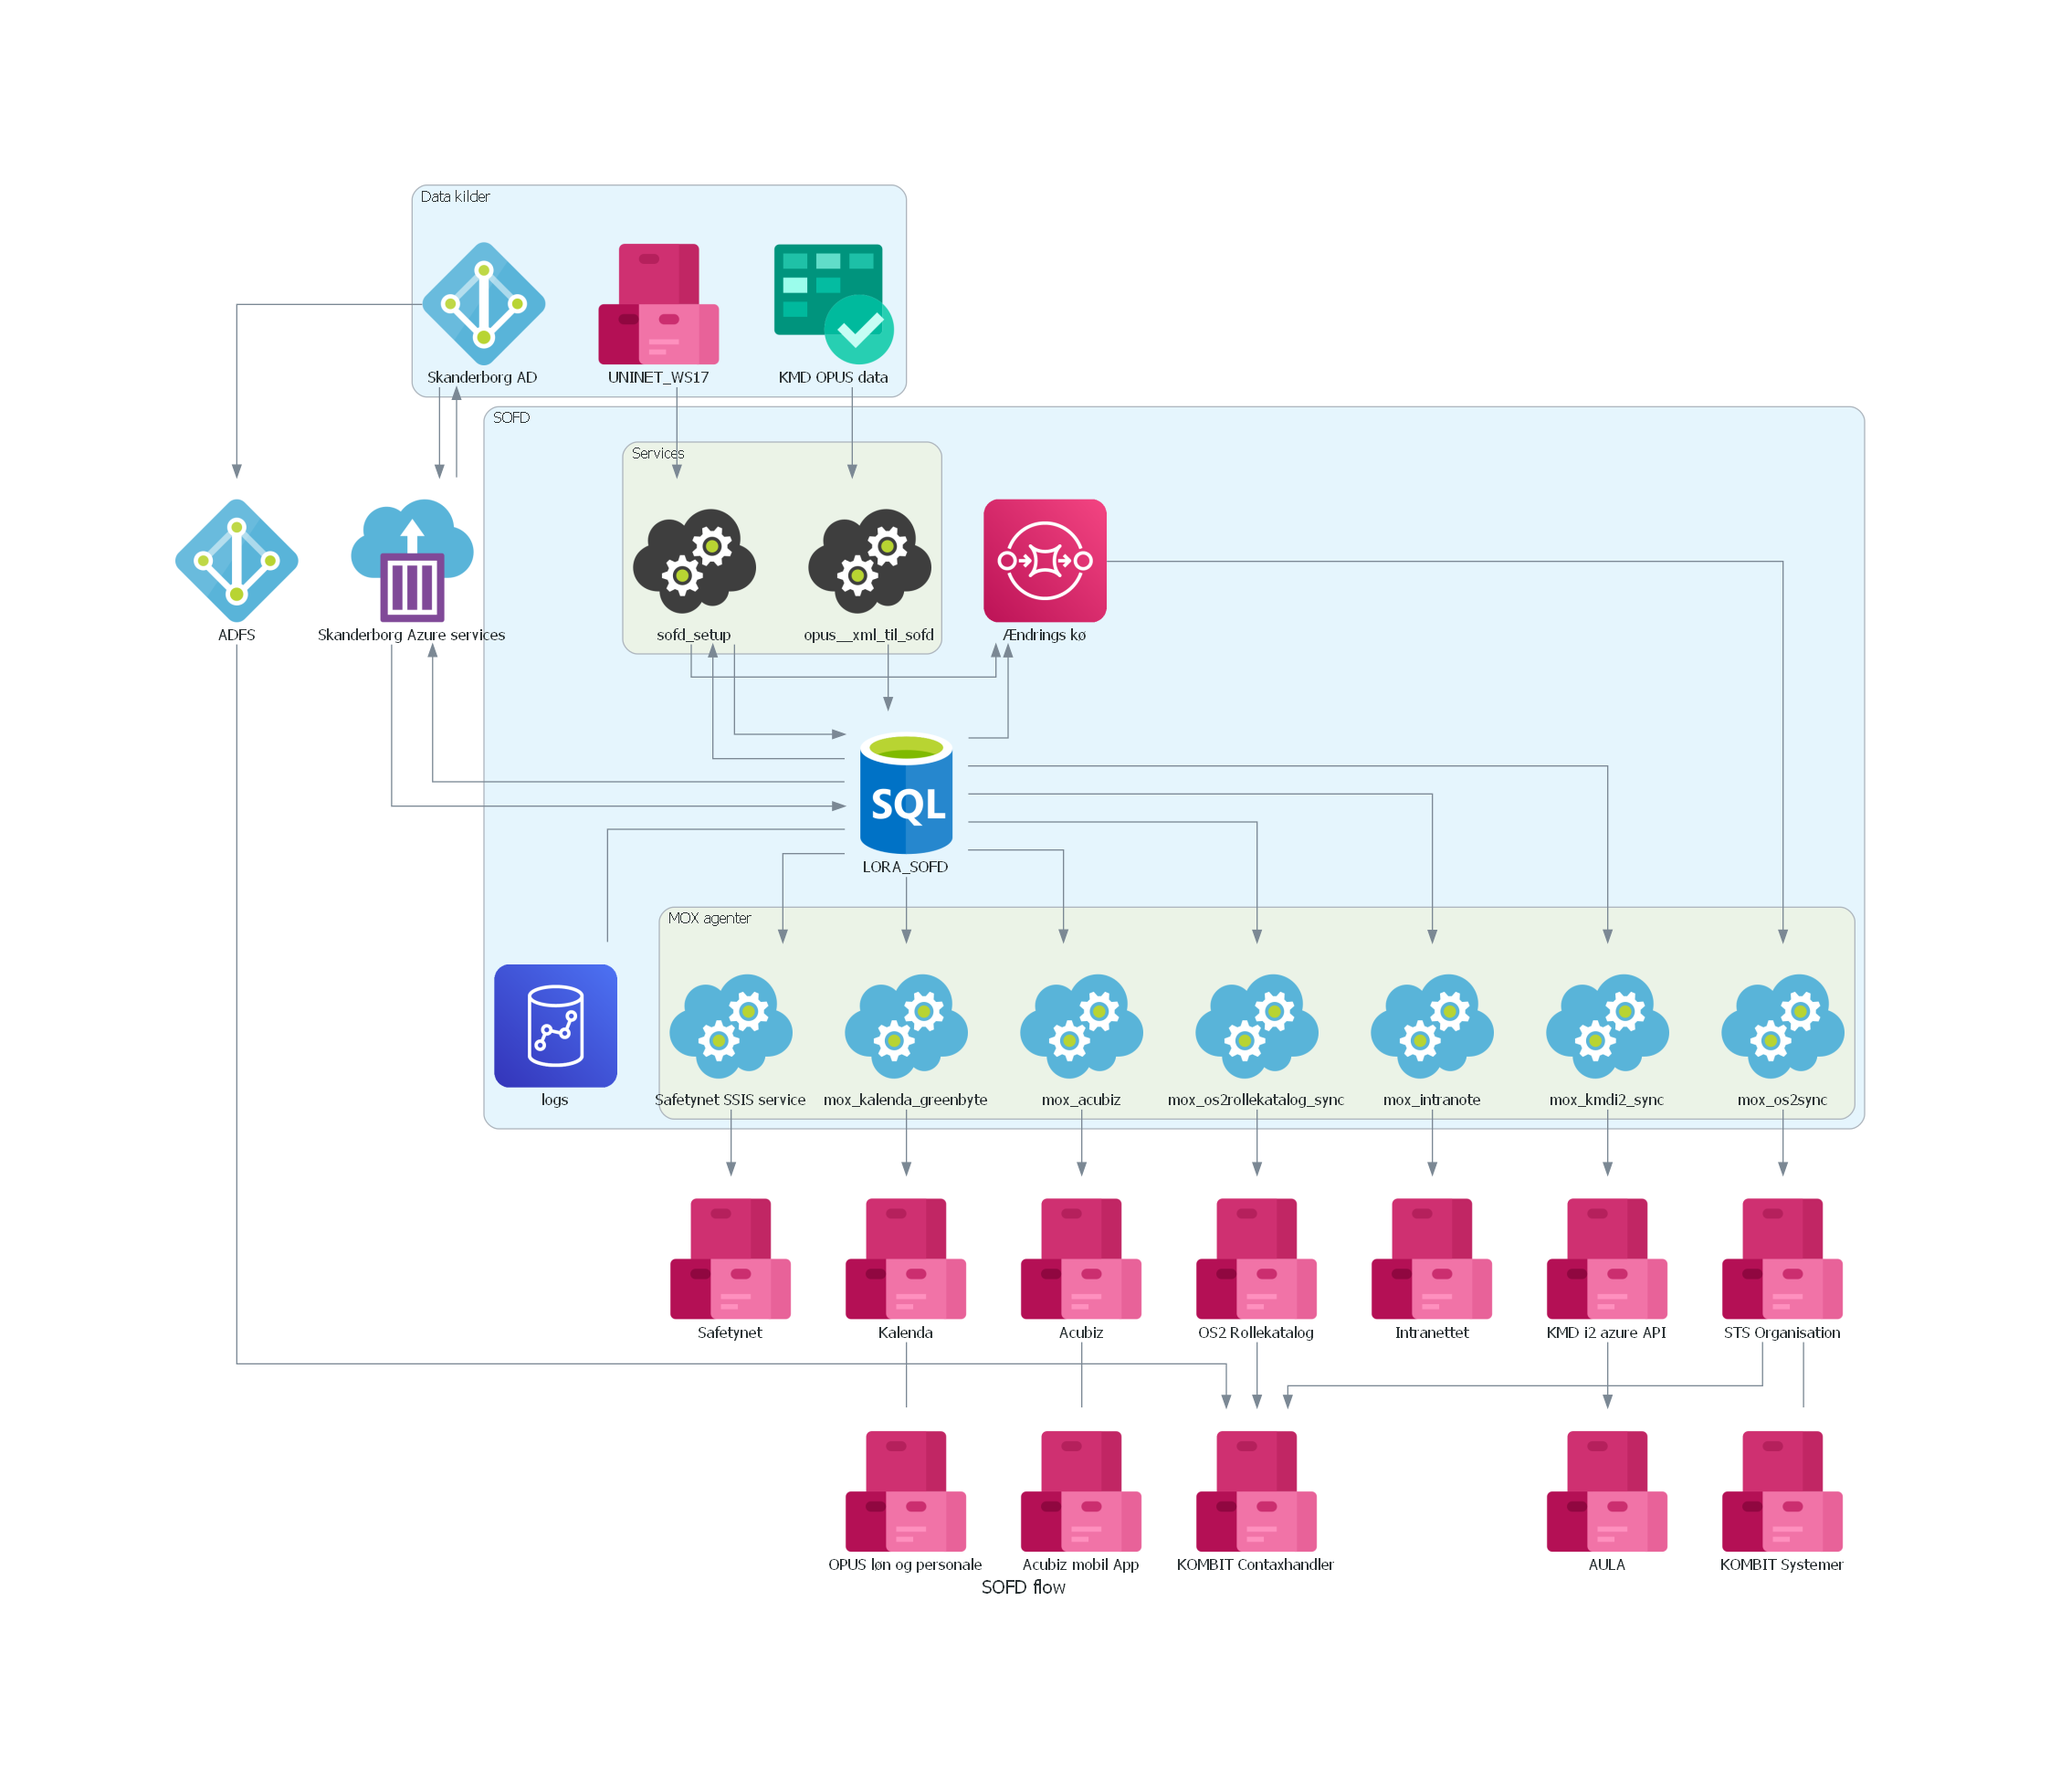
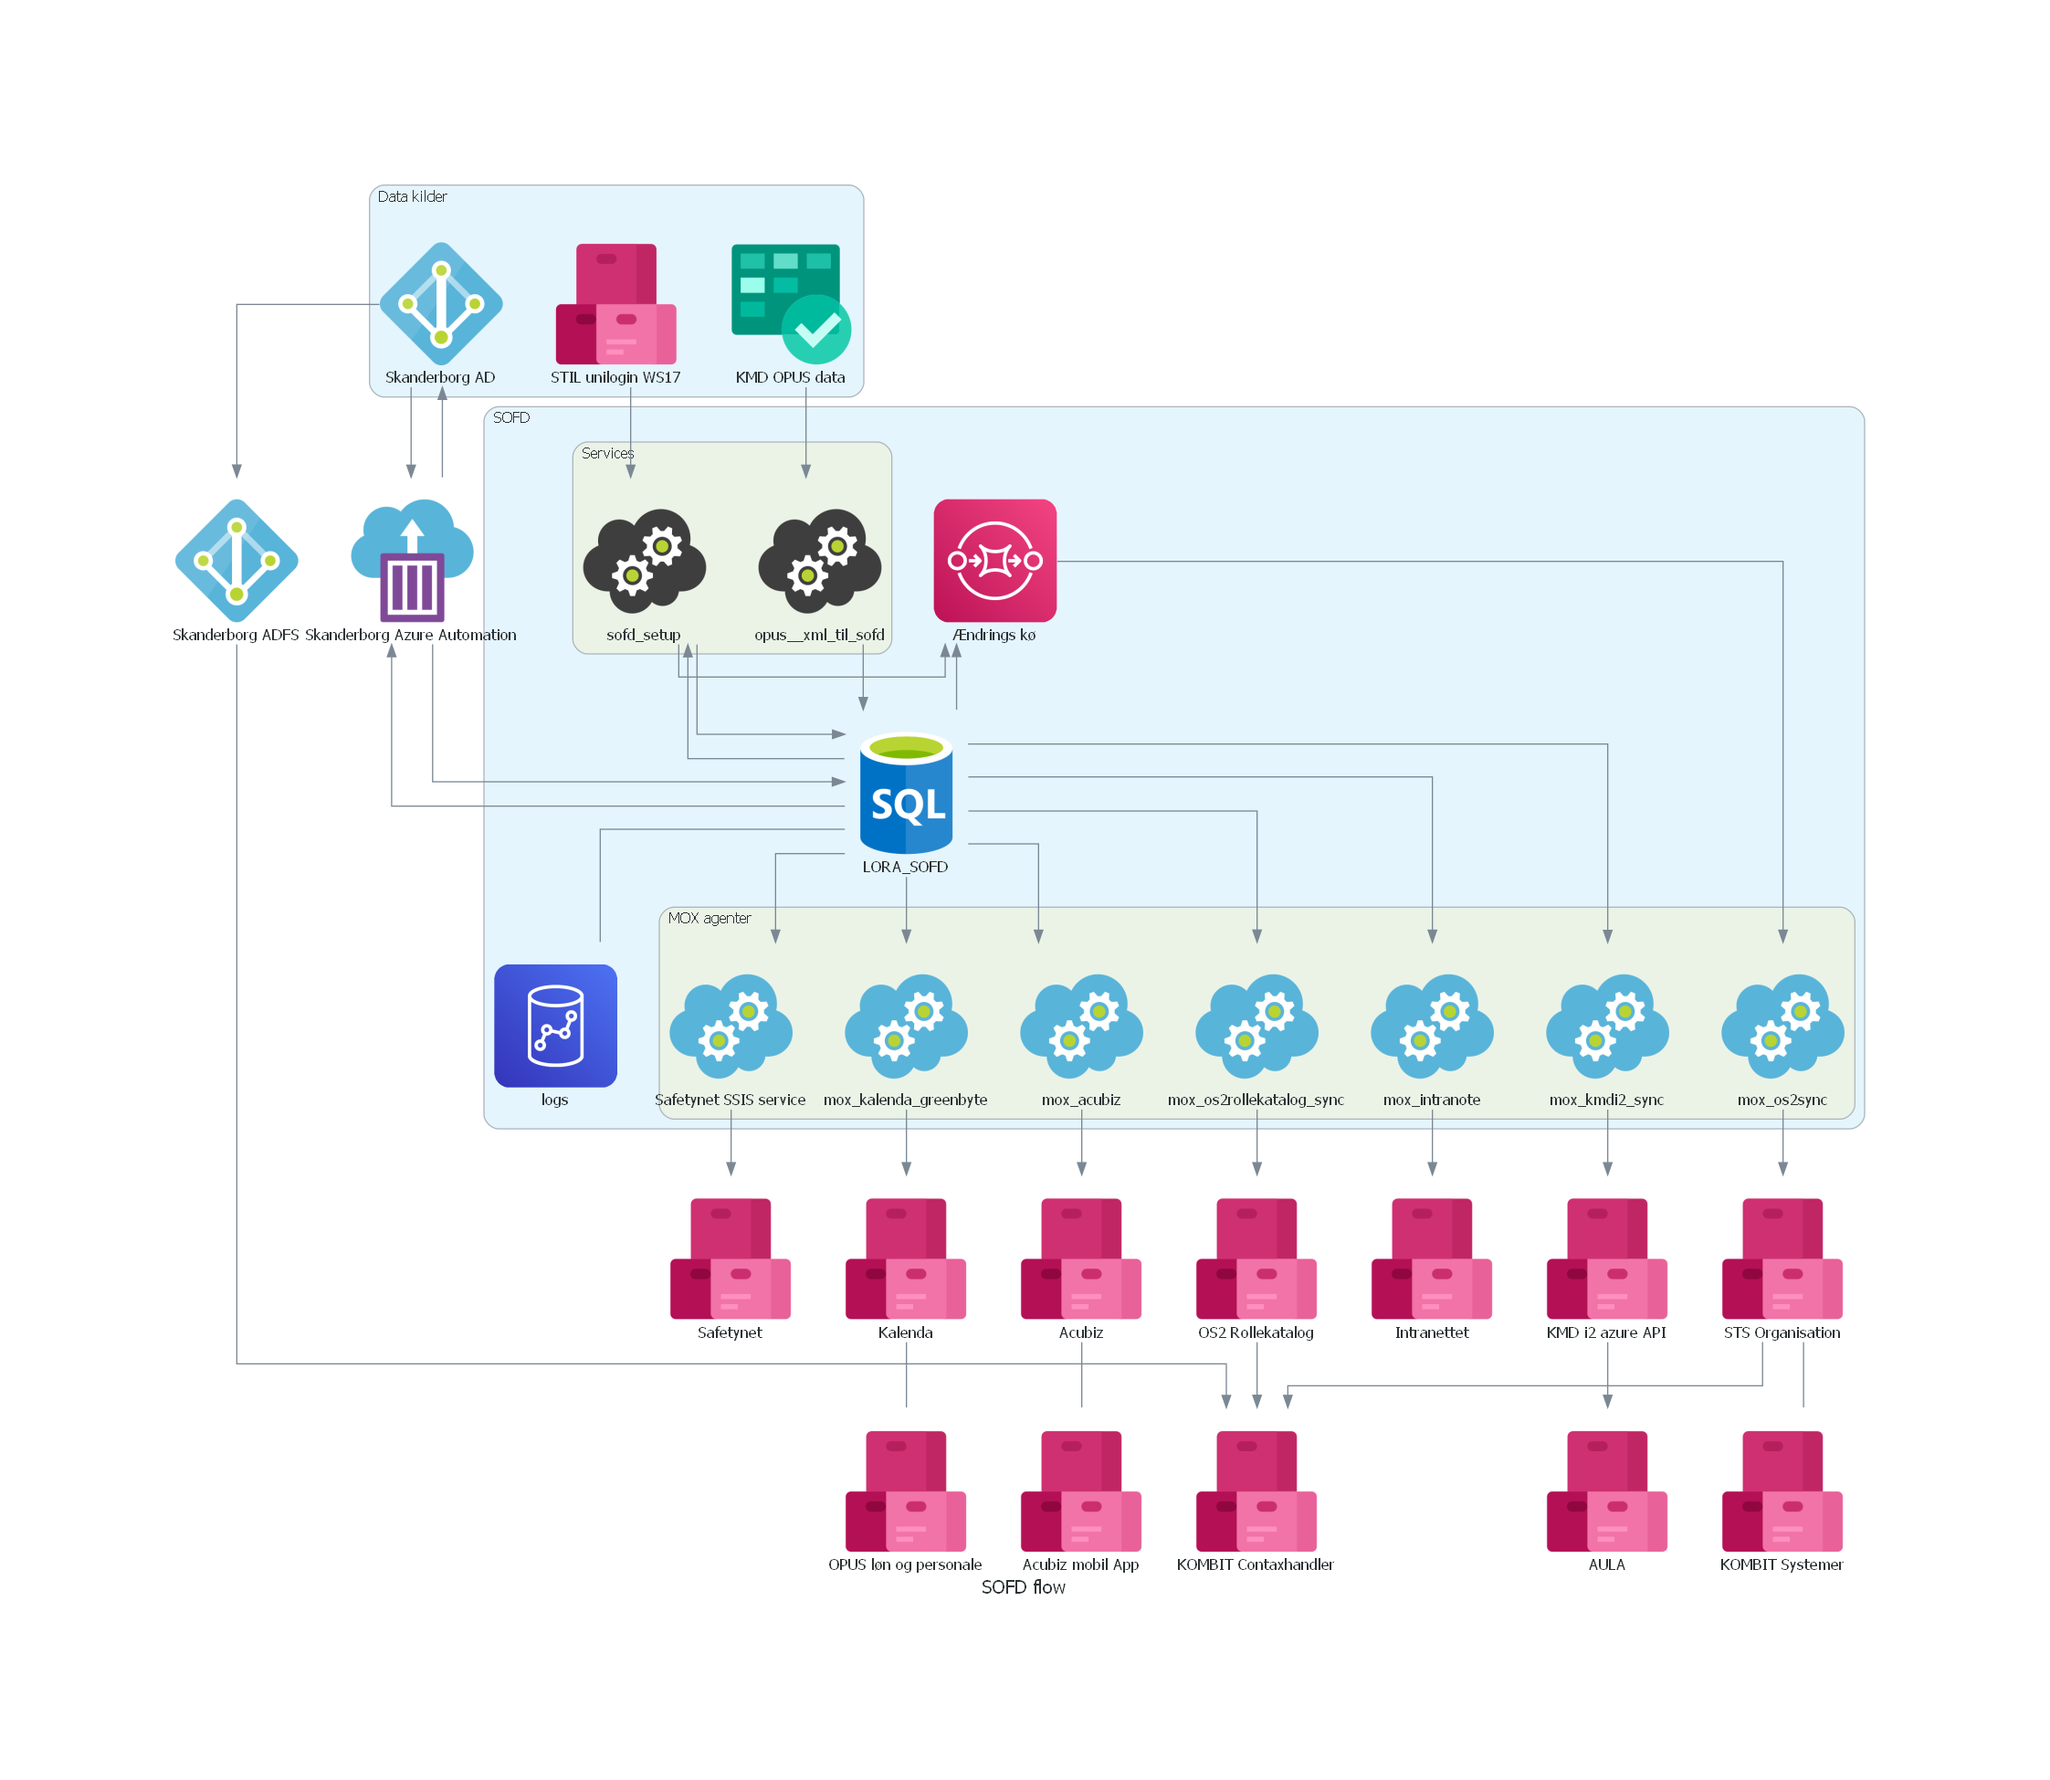
dataflows

diff --git a/diagrams/sofd_diagram.py b/diagrams/sofd_diagram.py
@@ -10,10 +10,10 @@ with Diagram('SOFD flow', show=False, direction='TB'):
 
     with Cluster('Data kilder'):
         opus_data = Boards('KMD OPUS data')
-        uni_data = Artifacts('UNINET_WS17')
+        uni_data = Artifacts('STIL unilogin WS17')
         ad_data = ActiveDirectory('Skanderborg AD')
 
-    azure_services = ContainerInstances('Skanderborg Azure services')
+    azure_services = ContainerInstances('Skanderborg Azure Automation')
     adfs = ActiveDirectory('Skanderborg ADFS')
 
     with Cluster('SOFD'):
@@ -44,9 +44,12 @@ with Diagram('SOFD flow', show=False, direction='TB'):
     acubiz = Artifacts('Acubiz')
     acubiz - Artifacts('Acubiz mobil App')
     kombit_context_handler = Artifacts('KOMBIT Contaxhandler')
+    #sbsys = Artifacts('SBSYS')
+    #sbsys - Artifacts('SBSIP')
 
 
     #kø og mox
+    #sofden >> sbsys >> azure_services
     ad_data >> adfs >> kombit_context_handler
     sts_org >> kombit_context_handler
     sofden >> mox_acubiz >> acubiz
